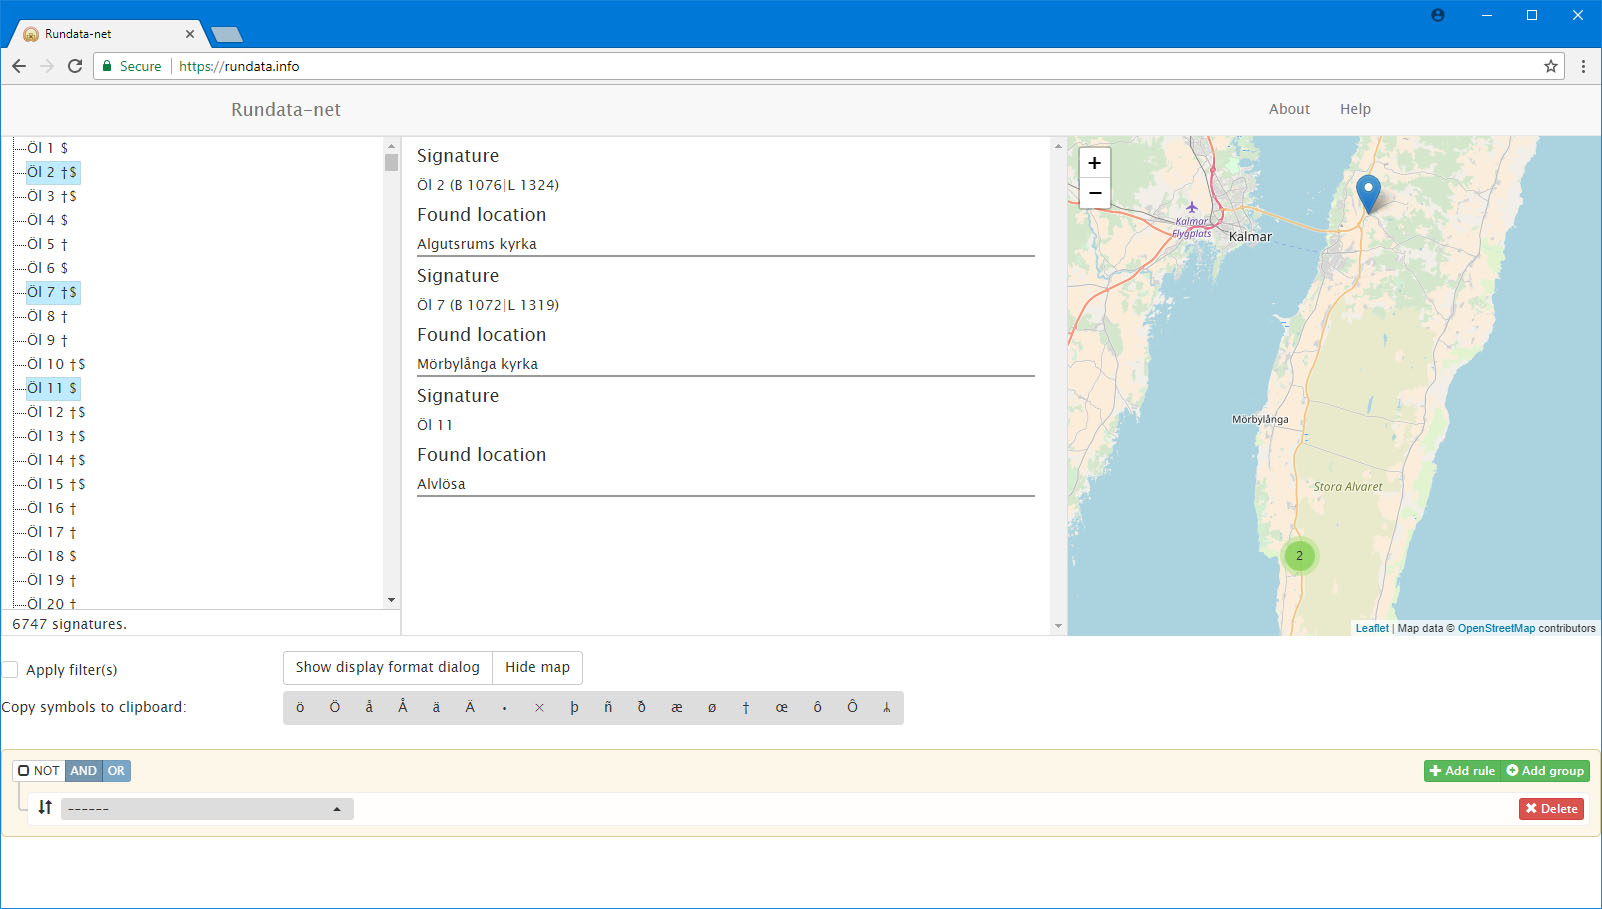
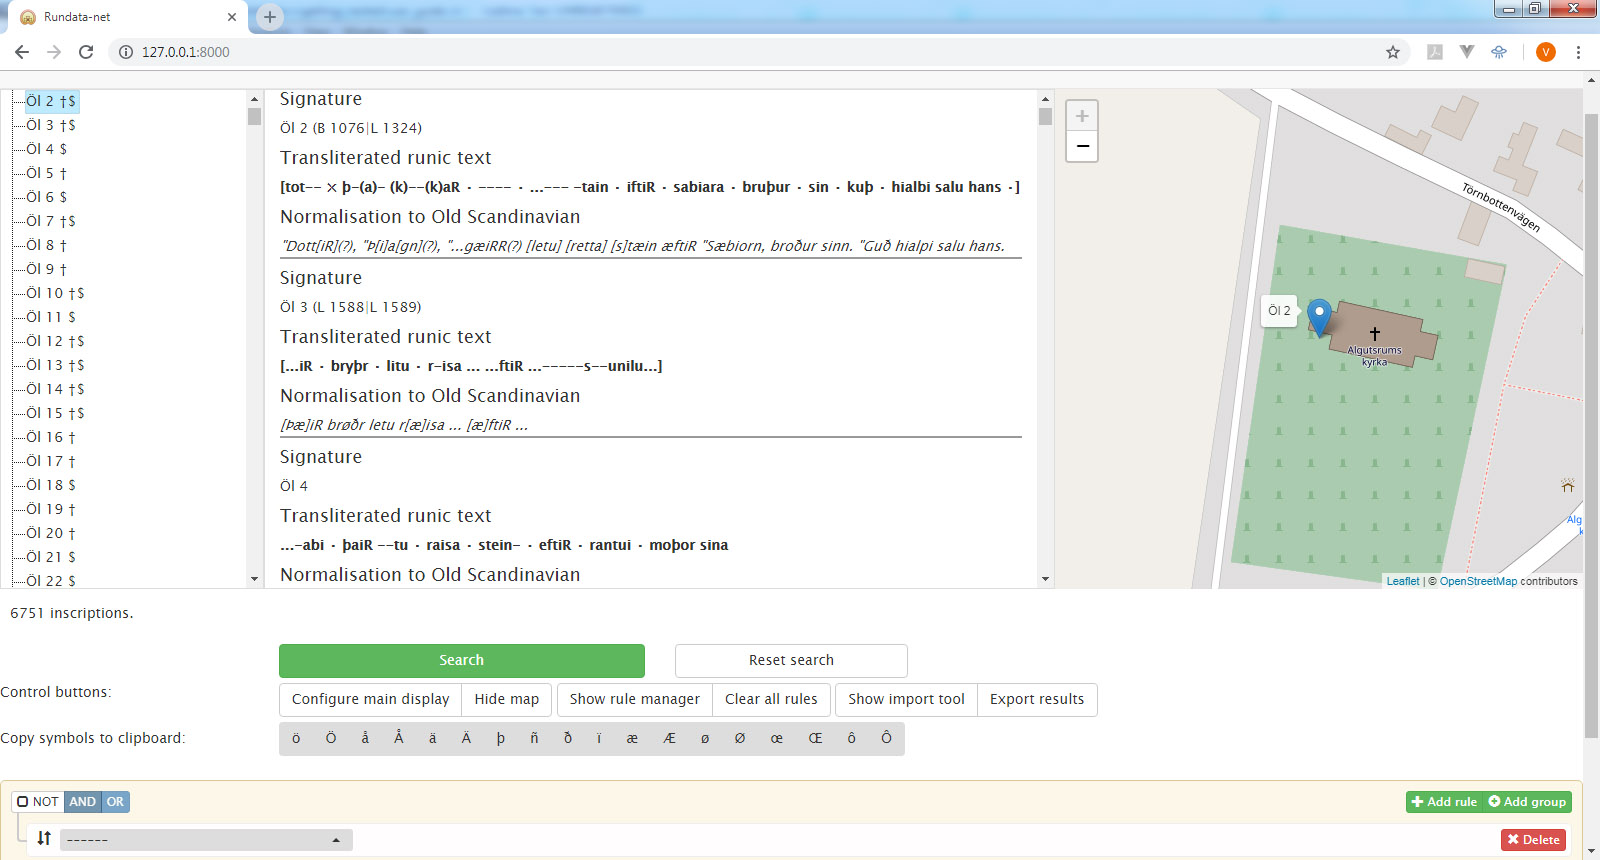
Update documentation to reflect recent changes in code/interface

diff --git a/docs/getting-started/user_guide.rst b/docs/getting-started/user_guide.rst
@@ -6,9 +6,12 @@ Quick user guide
 
 This section gives a quick introduction to the Rundata-net interface.
 
-Rundata-net is essentially an interface to a database. Since the database doesn't change very often, I have adopted a rather radical approach to accessing it. Most of the site functions are executed inside the user's browser, which includes the database. When the user opens the main page, it will take some time to load the site. This is the point where the database is transferred to the user's computer. Once it is transferred, all functions should work smoothly.
+Rundata-net is essentially an interface to a database. Since the database doesn't change very often, I have adopted a rather radical approach to accessing it. Most of the site functions are executed inside the user's browser, which includes the database. When the user opens the main page, it will take some time to load the site. This is the point where the database is transferred to the user's computer. Once it is transferred, all functions should work smoothly. Moreover, once the site is loaded
+you may work without the internet connection. Map display won't work without the
+internet connection.
 
-The main page is divided into several areas, which I refer to as panels. These are shown with numbers in the image below.
+The main page is divided into several areas, which I refer to as panels. These
+are shown with numbers in the image below.
 
 .. image:: /_static/panels.jpg
   :width: 100 %
@@ -16,13 +19,13 @@ The main page is divided into several areas, which I refer to as panels. These a
 
 #. List of inscriptions retrieved and their total number.
 
-#. Main display.
+#. Main display on which information about particular inscription is given.
 
-#. Map display.
+#. Map display. Shows inscription found location.
 
 #. Panels of control elements and buttons.
 
-#. Query builder.
+#. Query builder, which is used to define search queries.
 
 
 .. _guide-list-of-inscriptions:
@@ -32,17 +35,16 @@ List of inscriptions
 
 In this list each node corresponds to an individual inscription.
 The inscriptions are referenced by a unique name/ID called a signature, see
-:doc:`/db/signature`. The name/ID of some inscriptions have changed over time. One example is the inscription :samp:`Öl 2`, which has
+:doc:`/db/signature`. The name/ID of some inscriptions have changed over time.
+One example is the inscription :samp:`Öl 2`, which has
 been known as :samp:`B 1076` and :samp:`L 1324`. The list of inscriptions
 contains only the most recent names, i.e. neither :samp:`B 1076`, nor
 :samp:`L 1324`. Such former names (if any) are given on the
-:ref:`main display<main-display-info>` when an inscription is selected.
+:ref:`main display<main-display-info>`.
 
 When a user selects an inscription from the list, information about it is
-displayed on the :ref:`main display<main-display-info>` panel. It is possible
-to select single inscriptions as well as multiple ones. General selection principles
-apply for the selection of multiple inscriptions: use :kbd:`Control` to add
-individual inscriptions to a selection, use :kbd:`Shift` to add a selection.
+displayed on the :ref:`main display<main-display-info>` panel. It is only possible
+to select a single inscription at a time.
 
 Below the list of inscriptions a status text indicates the number of
 inscriptions available for selection. This can be useful when performing
@@ -57,42 +59,52 @@ Main display
   :width: 100 %
   :alt: Example of information presented on the main display
 
-Here, information on the selected inscriptions is given. Use the :guilabel:`Configure inscription
+Here, information on inscriptions is given. Use the :guilabel:`Configure inscription
 display` button for adjusting the kind of information to be displayed.
 
 The main display can be edited for the user's need. Thus clicking on the display
 enables you to type in or delete text. This is done in order to support
-keyboard navigation and the shortcuts select all, copy, paste. The user may thus, e.g.
-take all the information provided by Rundata-net and enter it into another program/app. Simply click
-on the main display, select all the text, open another application and paste the text into it.
+keyboard navigation and shortcuts like select, copy, paste.
+
+.. important::
+
+    It may appear that main display contains all the data, but in fact it may
+    contain just a fraction of data. If Rundata-net needs to display information
+    about many inscriptions (for example, 6751 for the case when no search had been
+    performed), then it is not practical to display information about all 6751.
+    Such display will take very long time to produce and will make your browser
+    extremely slow. Whenever there is a need to display large amount of
+    inscriptions, Rundata-net will pretend that they are on the screen, but will
+    actually load them into the screen according to user's scroll position. This
+    is important to keep in mind if you would like to copy text from the main
+    display to another application by selecting all text in the main display.
+    If you need to export all search results, you may use export functionality.
 
 .. _map-info:
 
 Map display
 ===========
 
-The map shows place marks for the selected inscriptions if coordinates
+The map shows placemarks for the inscriptions if coordinates
 are available. It shows the location where the inscription was found and not
 its current location. Some such coordinates are known to be wrong.
 However, since Rundata-net is in this regard simply a different view program for SMDB,
 it will inevitably inherit such flaws in the SMDB.
 
-When a placemark is clicked on, the main display is scrolled in order to render the inscription
-referenced by that particular placemark visible.
+When a placemark is clicked on, the main display is scrolled in order to display
+the inscription referenced by that particular placemark.
 
 Control panels
 ==============
 
 There are several horizontally aligned panels of control elements and buttons.
 
-Filter control
+Search buttons
 --------------
 
-:guilabel:`Apply filter(s)`. This check box controls whether filters are to be applied
-or not. Filters are built with the :ref:`query builder<query-builder-info>`. Checking
-:guilabel:`Apply filter(s)` executes a search in the database if
-filters have been applied. If :guilabel:`Apply filter(s)` is unchecked all the inscriptions
-in the database are presented in the list.
+:guilabel:`Search` button is used to initiate searching. Search query is created
+with the :ref:`query builder<query-builder-info>`. :guilabel:`Reset search`
+button is used to show all the inscriptions in the database.
 
 Main display configuration
 --------------------------
@@ -101,20 +113,21 @@ Main display configuration
   :width: 100 %
   :alt: Example of format dialog
 
-The :guilabel:`Configure main display` button opens the main dispay configuration window. In this
-window, the user can select the information to be shown on the main display for each individual
-inscription.
+The :guilabel:`Configure main display` button opens a dialog box used to configure
+the main display. On this dialog box, the user may select the information to be
+shown on the main display for each individual inscription.
 
-The list to the left contains the fields available for selection. The list to the right
-contains the fields selected for display. The order of the selected fields may be rearranged by using
-the two buttons located under the right-hand list.
+The list to the left contains fields available for selection. The list to the right
+contains fields selected for display. The order of the selected fields may be
+rearranged by using the two buttons located under the right-hand list.
 
-Changes in the selected fields are applied when the dialogue window is closed by clicking
-on :guilabel:`Apply changes`.
+Changes in the selected fields are applied when the dialogue window is closed by
+clicking on :guilabel:`Apply changes` button.
 
 The :guilabel:`Display headers` checkbox is used to control whether any field headers
-should be presented on the main display or not. Compare these two images. The version to the left
-has the headers turned on. The version to the right has the headers turned off.
+should be presented on the main display or not. Compare these two images.
+The version to the left has the headers turned on. The version to the right has
+the headers turned off.
 
 .. image:: /_static/headers-on.jpg
   :width: 49 %
@@ -128,6 +141,96 @@ Map visibility control
 ----------------------
 
 The :guilabel:`Hide map`/:guilabel:`Show map` button is self-explanatory.
+
+Rule manager
+------------
+
+Click on :guilabel:`Show rule manager` makes visible *rule manager*. Rule manager
+is a tool that can be used to export and import search query. Exported query can
+be e-mailed to a colleague or applied next time user works with Rundata.
+
+Clearing search query
+---------------------
+
+Search query consists of individual rules and group of rules. Each rule/group
+provides a :guilabel:`Delete` button, which allows to delete that particular
+rule or group. However, if you have a lot of rules, which you would like to delete,
+clicking on every individual :guilabel:`Delete` button might be tiresome. Button
+:guilabel:`Clear all rules` may be used in such cases. After clicking on it, all
+searching rules will be removed and search query will consist of a single
+placeholder rule.
+
+Importing and exporting results
+-------------------------------
+
+It is possible to export search results and to import list of inscriptions.
+
+:guilabel:`Export results` button allow to export all search results in a file.
+File is create in a
+`comma-separated values <https://en.wikipedia.org/wiki/Comma-separated_values>`_
+(CSV) format. This format can be viewed as a table where each row corresponds to
+an individual inscription and each column to some information (for example,
+signature text). Many programs can open CSV files. For example, it should be
+possible to open them directly in Excel.
+
+Rundata-net exports data in a file with default name :file:`rundata-net_results.csv`.
+User may select the location where the file will be save to and the name of the
+file. Exported file contains all inscriptions from the list of inscriptions.
+Number of columns will correspond to the number of selected inscription properties,
+i.e. number of columns corresponds to the right-hand list of the main display
+configuration dialog box. First line of the file is a header and it will contain
+column names. Each value is *escaped* by quotes, i.e. :samp:`Öl 2` is written
+as :samp:`"Öl 2"` in the file. If you open the file in Excel, you shall not notice
+that. Some values may contain a list of values. This is true, for example for
+column :guilabel:`Images`. An inscription may have multiple images assigned to it.
+In such a case, values are separated by a semicolon. For example value
+:samp:`DR 411;B 1071;L 1323` consist of three values :samp:`DR 411`, :samp:`B 1071`,
+and :samp:`L 1323`. All coordinates are given in `WGS 84 <https://en.wikipedia.org/wiki/World_Geodetic_System#A_new_World_Geodetic_System:_WGS_84>`_ geodetic system.
+
+It is possible to import list of inscriptions in Rundata-net. A typical user case
+is if a user would like to study more closely a list of inscriptions given in
+a publication.
+
+.. warning::
+
+    The import is limited to 200 inscriptions!
+
+:guilabel:`Show import tool` button shows a panel from which a user can select
+a file or drop a file to that area. Rundata-net supports 3 file formats for import.
+
+*Format #1*. Simple format where all inscriptions are written on one line separated by a comma.
+Example of such a file::
+
+    Öl Köping13,Ög ATA322-4035-2011:14,Sö 175,U 381
+
+Example is available for download as :download:`csv-one-line.csv`.
+
+*Format #2*. File is multiline and each inscription is written on it's own line::
+
+    Öl Köping13
+    Ög ATA322-4035-2011:14
+    Sö 175
+    U 381
+
+Example is available for download as :download:`csv-multiline.txt`.
+
+*Format #3*. A CSV file with or without the header. If file has no header, then
+the first column is considered to contain signatures. If header is present in file,
+then a column named :samp:`signature` (case insensitive) is used. Example of such
+a file with a header::
+
+    Dating,Signature
+    1,Öl Köping13
+    2,Ög ATA322-4035-2011:14
+    3,Sö 175
+    4, U 381
+
+Example is available for download as :download:`csv-header.csv`.
+
+.. note::
+
+    Regardless of the format signatures are always given without any special
+    symbols like † or $.
 
 Special symbols
 ---------------

diff --git a/docs/db/data.rst b/docs/db/data.rst
@@ -250,7 +250,8 @@ Special characters:
 * ¶ = new line in the inscription.
 * ¶¶ = One word spans two sides of object. For technical reasons, it is not possible to put a side notation such as §B in the middle of a word. Instead, the side notation is located before or after the word which spans two sides of a stone and the place the word is broken is marked by two line break symbols.
 
-Search normalization removes most of the special characters. Some examples:
+Search normalization removes most of the special characters. This means that it
+is not possible to search for removed special symbols. Some examples:
 
 * :samp:`[...(r) : sin : ste(i)... ...]` becomes :samp:`...r sin stei... ...`.
 

diff --git a/docs/searching.rst b/docs/searching.rst
@@ -89,8 +89,8 @@ will be given later.
       patterns in different inscription texts. All patterns must be present in a single word. We may
       illustrate such search with the :ref:`example below <searching-word-search>`.
 
-Case sensitivity in searches and normalization
-----------------------------------------------
+Case sensitivity in searches and search normalization
+-----------------------------------------------------
 
 Most of the textual-based searches are insensitive as regards capital letters.
 For example, *Öl* is matched to both *Öl* and *öl*. On the other hand,
